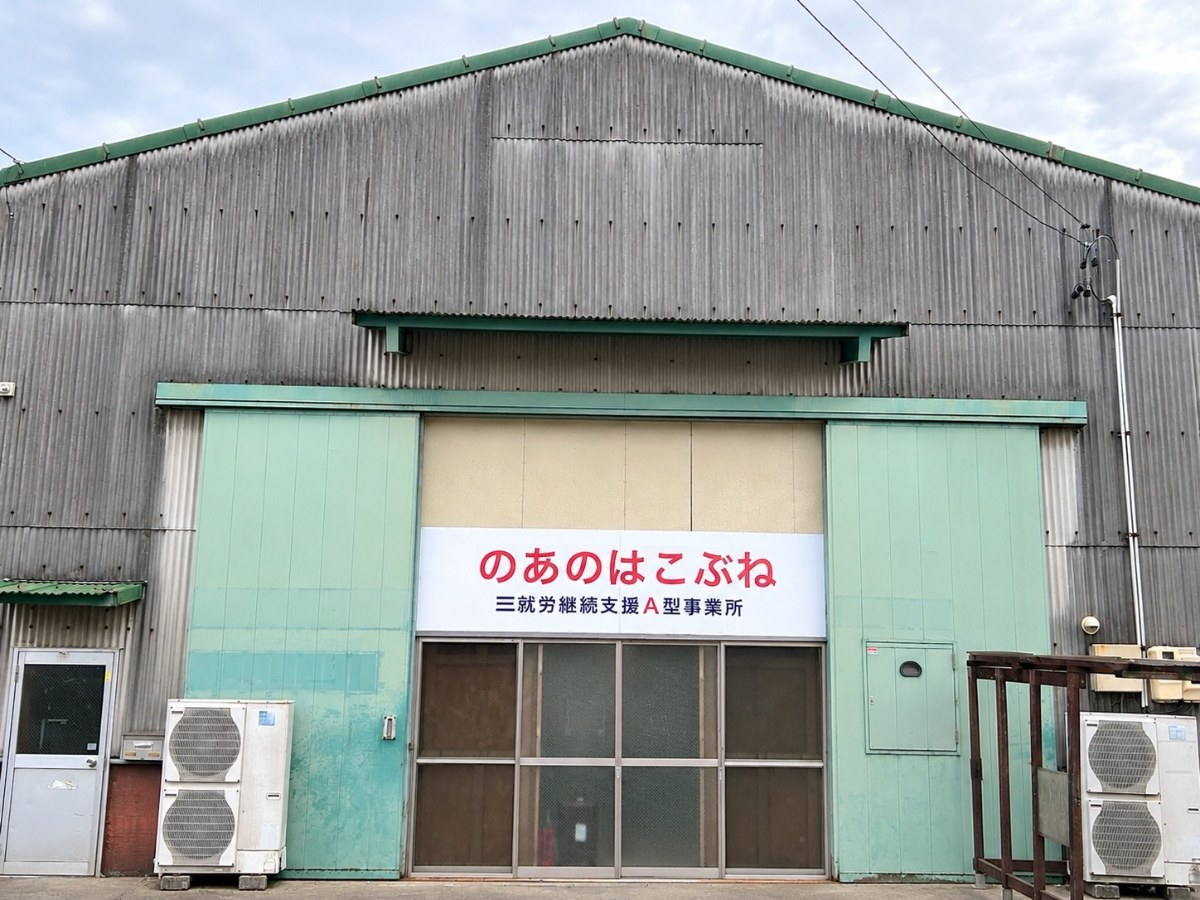
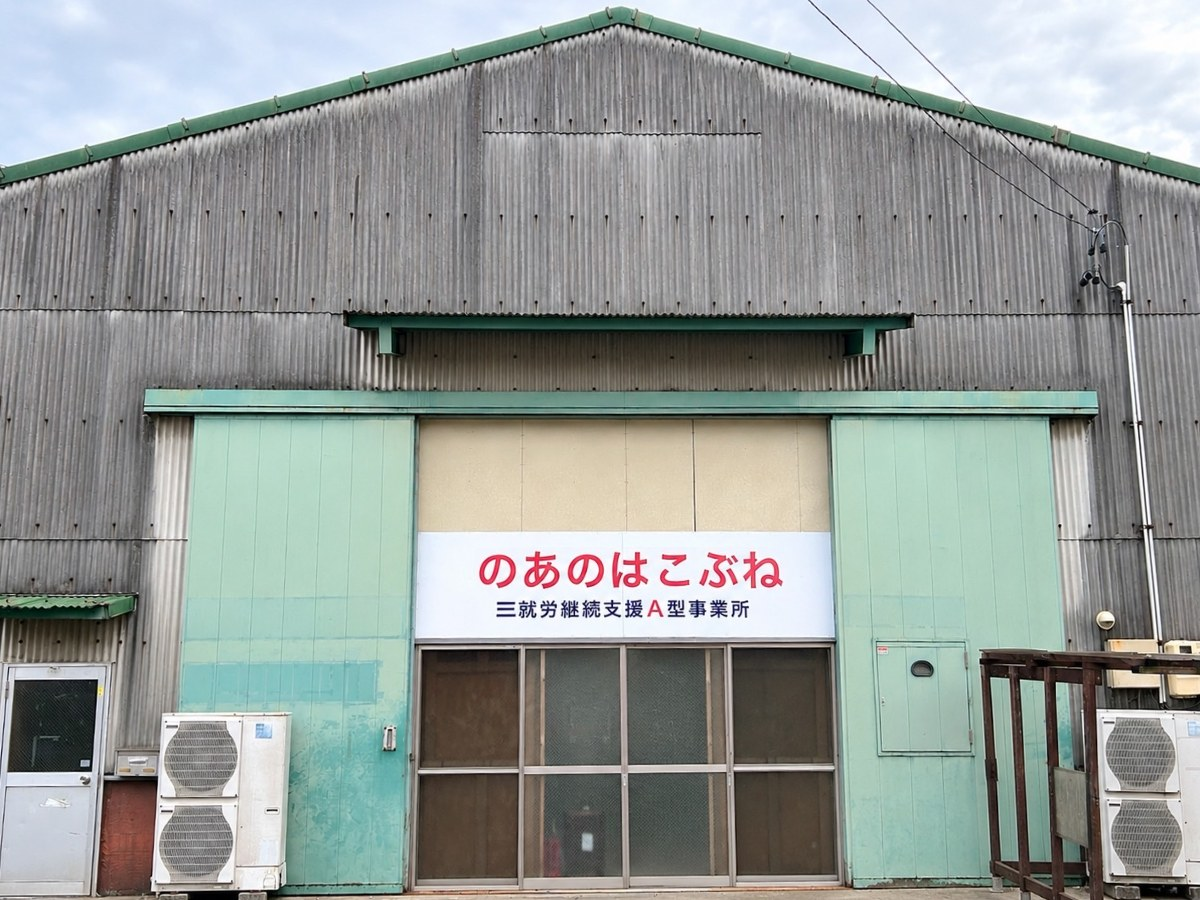
のあのはこぶね: 会社名に株式会社ノエルを追加（2行）・外観写真の傾きを直す

diff --git a/data/companies.js b/data/companies.js
@@ -190,7 +190,7 @@ window.COMPANIES = [
     real: true, // 本番の掲載企業（サンプル表示を出さない）
     category: '福祉・就労支援',
     companyName: '就労継続支援A型・B型 のあのはこぶね （一宮事業所 / 稲沢事業所）',
-    thumb: 'images/noa-main.jpg', // 先方支給「のあのはこぶね修正1」（一宮事業所の外観・看板）1200×900（2026-11-18 差し替え）。人物写真・肩書は外した（オーナー指示）
+    thumb: 'images/noa-main.jpg', // 先方支給「のあのはこぶね修正1」（一宮事業所の外観・看板）1.05°左に回して水平に・1200×900（2026-11-18 差し替え）。人物写真・肩書は外した（オーナー指示）
     catchphrase: '一人ひとりに寄り添い、あなたらしい「働く」をサポートします！',
     description: '「のあのはこぶね」では、一人ひとりの個性や体調に寄り添い、自分らしく前向きにステップアップできる環境づくりを大切にしています。安定した収入を目指すA型から、無理なく自分のペースで始められるB型まで、多彩な作業をご用意。送迎やおやつサービス、昼食提供など、通いやすく安心して続けられるサポート体制を整えています。',
     points: [
@@ -199,7 +199,7 @@ window.COMPANIES = [
       { title: '未経験でも始めやすい多彩な作業内容', text: '内職（バリ取り・検品・シール貼り）やハウスクリーニング、古着に関わる仕事（クリーニング・リメイク・プライス付け等）、稲沢事業所ではスイーツ・パン作りなど、できることから一緒に無理なくスタートできます。' }
     ],
     overview: [
-      ['会社名', '合同会社のあのはこぶね'],
+      ['会社名', '合同会社のあのはこぶね\n株式会社ノエル'],
       ['事業所名', '就労継続支援A型・B型 のあのはこぶね（一宮）\n就労継続支援B型 のあのはこぶね（稲沢）'],
       ['所在地', '【一宮事業所（A型・B型）】\n〒491-0838 愛知県一宮市猿海道1-7-3\n（TEL: 0586-85-5103 / 妙興寺駅から車で7分）\n\n【稲沢事業所（B型）】\n〒492-8217 愛知県稲沢市稲沢町前田294-1\n（TEL: 0587-58-5335 / 国府宮駅から車で5分）'],
       ['事業内容', '障害福祉サービス事業（就労継続支援A型・B型の運営）'],
